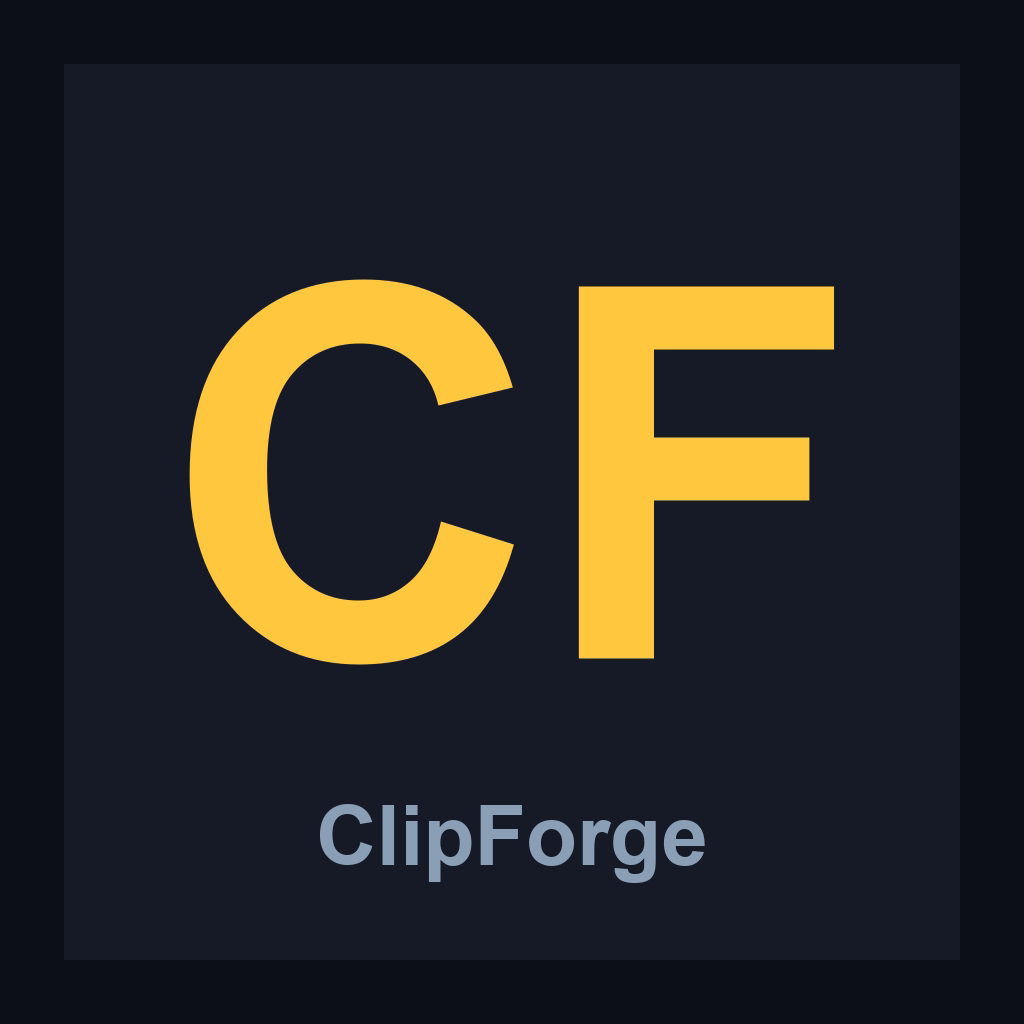
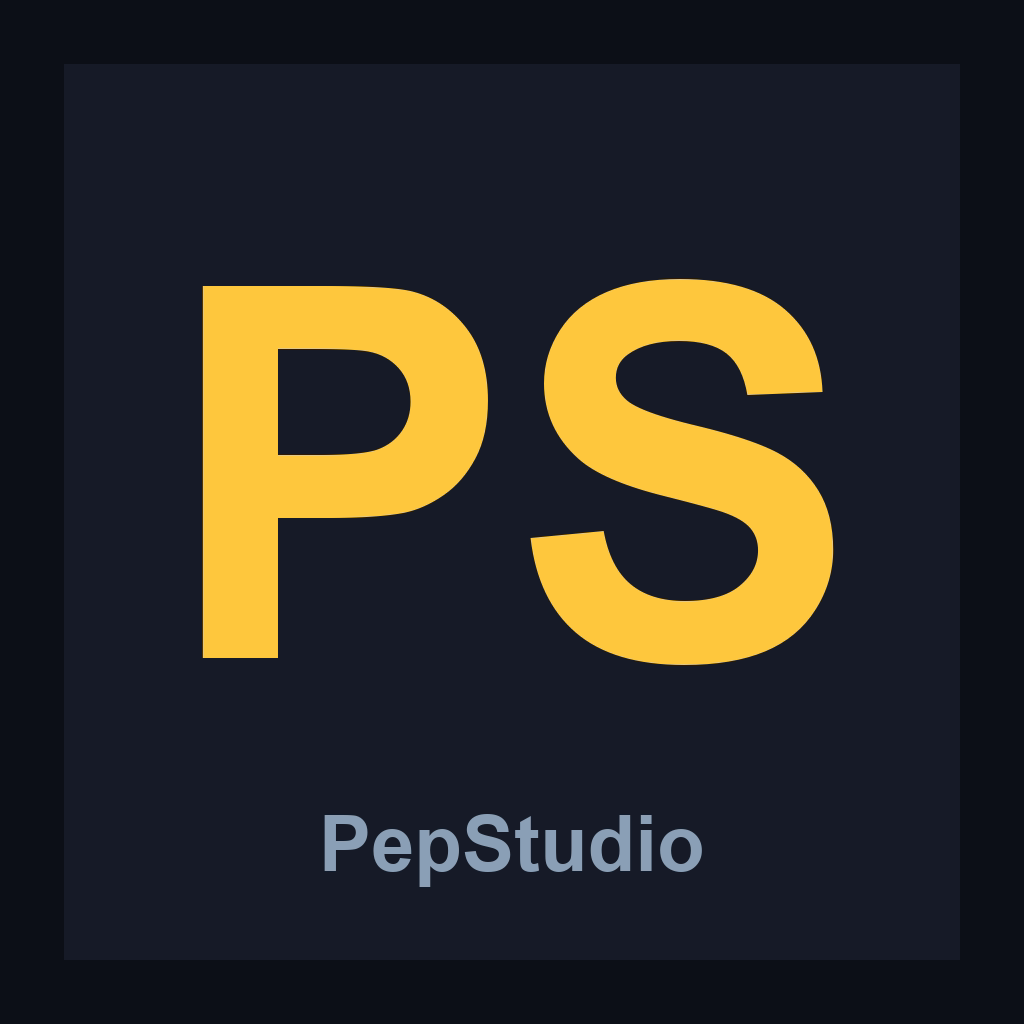
v0.3.1 — rename to PepStudio + fix EADDRINUSE crash
- Renamed the app to PepStudio (productName, appId com.kpscriptz.pepstudio,
  window title, splash, UI header, icon, error pages). Repo stays clipforge.
- Fix "listen EADDRINUSE :::4178": the server now binds an OS-assigned port
  (PORT=0) and reports the real port to the Electron parent over IPC, so there's
  no fixed-port race. Added a single-instance lock so a second launch focuses the
  existing window instead of starting a second server.
- Migrate the whisper model from a prior ClipForge install instead of re-downloading.

diff --git a/server.js b/server.js
@@ -303,11 +303,15 @@ app.post('/api/reveal', async (req, res) => {
   res.json({ ok: true });
 });
 
-// Start listening. Returns the http.Server once it's up (used by the Electron shell).
+// Start listening. Returns the http.Server once it's up (used by the desktop shell).
+// PORT=0 lets the OS pick a guaranteed-free port; the actual port is reported back
+// to the Electron parent over IPC so there's never an EADDRINUSE race.
 export function start(port = process.env.PORT || 4178) {
   return new Promise((resolve) => {
-    const server = app.listen(port, () => {
-      console.log(`ClipForge running -> http://localhost:${port}`);
+    const server = app.listen(Number(port), () => {
+      const actual = server.address().port;
+      console.log(`PepStudio running -> http://localhost:${actual}`);
+      if (process.send) { try { process.send({ type: 'pepstudio-port', port: actual }); } catch {} }
       resolve(server);
     });
   });

diff --git a/public/index.html b/public/index.html
@@ -3,13 +3,13 @@
 <head>
   <meta charset="UTF-8" />
   <meta name="viewport" content="width=device-width, initial-scale=1.0" />
-  <title>ClipForge — local gameplay editor</title>
+  <title>PepStudio — local gameplay editor</title>
   <link rel="stylesheet" href="style.css" />
 </head>
 <body>
   <header>
-    <div class="brand">⚡ ClipForge</div>
-    <div class="sub">60-min raw → long cut · shorts · captions — local & free</div>
+    <div class="brand">⚡ PepStudio</div>
+    <div class="sub">VOD → TikTok clips · YouTube cut · captions — local & free</div>
     <div id="capStatus" class="badge muted">captions: checking…</div>
   </header>
 

diff --git a/electron/splash.html b/electron/splash.html
@@ -24,8 +24,8 @@
 </style>
 </head>
 <body>
-  <div class="logo">CF</div>
-  <div class="name">ClipForge<small>local · free · gameplay editor</small></div>
+  <div class="logo">PS</div>
+  <div class="name">PepStudio<small>local · free · gameplay editor</small></div>
   <div class="spinner"></div>
   <div id="status">Starting…</div>
   <script>

diff --git a/public/app.js b/public/app.js
@@ -1,4 +1,4 @@
-// ClipForge editor — analyze, curate highlights on a timeline, export.
+// PepStudio editor — analyze, curate highlights on a timeline, export.
 const $ = (s) => document.querySelector(s);
 const fmt = (t) => {
   t = Math.max(0, t || 0);

diff --git a/README.md b/README.md
@@ -1,4 +1,4 @@
-# ⚡ ClipForge
+# ⚡ PepStudio
 
 A **local, free, AI-assisted gameplay editor** for the Mac. Drop in an hour of raw
 gameplay; it auto-finds the action and gives you a Premiere-style timeline to curate,
@@ -9,7 +9,7 @@ with **FFmpeg** + **whisper.cpp**.
 
 ## Paste a link → publish-ready clips
 
-Drop in a **YouTube or Twitch VOD link** (or a local file) and ClipForge downloads it with
+Drop in a **YouTube or Twitch VOD link** (or a local file) and PepStudio downloads it with
 `yt-dlp`, analyzes it, then gives you two one-click exports:
 
 - **🎵 TikTok pack** — your top moments as vertical 1080×1920 clips with burned-in,
@@ -21,7 +21,7 @@ Drop in a **YouTube or Twitch VOD link** (or a local file) and ClipForge downloa
 
 ## 👻 Phantasm — tag, don't delete
 
-ClipForge doesn't blindly throw footage away. Dead space stays on the timeline as
+PepStudio doesn't blindly throw footage away. Dead space stays on the timeline as
 **red "ghost" clips** until you decide to banish them — so a silent-but-epic stealth
 play never gets auto-trashed.
 
@@ -38,19 +38,19 @@ from everything still green. Keys: `G` toggle keep/ghost, `V` verify (play 2 s),
 
 ## Install (desktop app)
 
-ClipForge is a **native macOS app** (Electron) — its own window and dock icon, no
+PepStudio is a **native macOS app** (Electron) — its own window and dock icon, no
 Terminal, no browser. The Node server runs embedded inside it.
 
-1. Download `ClipForge-<version>-arm64.dmg` from the [Releases](../../releases) page.
-2. Open it and drag **ClipForge** onto **Applications**.
-3. **Right-click ClipForge → Open → Open** the first time (it isn't Apple-notarized).
+1. Download `PepStudio-<version>-arm64.dmg` from the [Releases](../../releases) page.
+2. Open it and drag **PepStudio** onto **Applications**.
+3. **Right-click PepStudio → Open → Open** the first time (it isn't Apple-notarized).
 4. It opens its own window with a setup splash, then the editor.
 
 On first launch it pulls what it needs from the internet: **yt-dlp** (downloaded directly,
 no Homebrew) and the **~141 MB speech model**. **FFmpeg with libass** and **whisper.cpp**
 are used from your system if present, else installed via [Homebrew](https://brew.sh).
 Electron bundles Node, so no separate Node install is required. Everything mutable
-(downloads, renders, model) lives in `~/Library/Application Support/ClipForge`.
+(downloads, renders, model) lives in `~/Library/Application Support/PepStudio`.
 
 ## Run from source (devs)
 
@@ -74,15 +74,15 @@ separate formula), so:
 brew install ffmpeg-full     # bottled, keg-only — does NOT touch your core ffmpeg
 ```
 
-ClipForge's `lib/ff.js` auto-detects `/opt/homebrew/opt/ffmpeg-full/bin/ffmpeg`, so the
+PepStudio's `lib/ff.js` auto-detects `/opt/homebrew/opt/ffmpeg-full/bin/ffmpeg`, so the
 `subtitles`/`drawtext` filters light up and exports burn the animated captions in. Set
-`FFMPEG_PATH` to override. Without libass, ClipForge degrades gracefully and exports a
+`FFMPEG_PATH` to override. Without libass, PepStudio degrades gracefully and exports a
 `captions.srt` for YouTube Studio / CapCut instead.
 
 ## Build the app
 
 ```bash
-npm run dist                 # → dist/ClipForge-<version>-arm64.dmg (Electron desktop app)
+npm run dist                 # → dist/PepStudio-<version>-arm64.dmg (Electron desktop app)
 ```
 
 ## Tuning